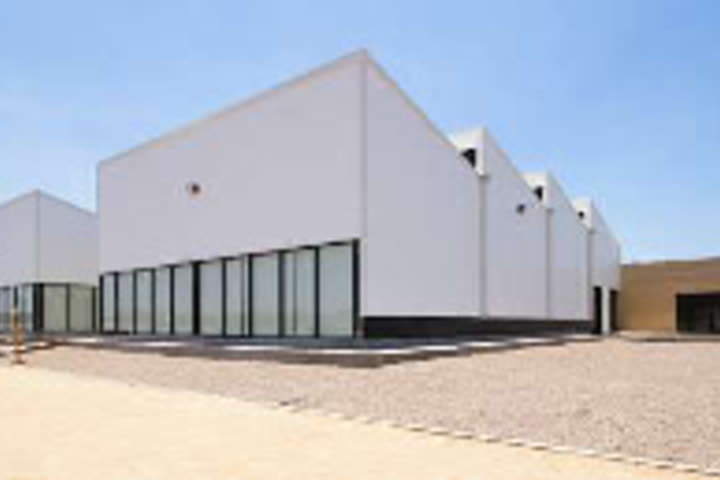
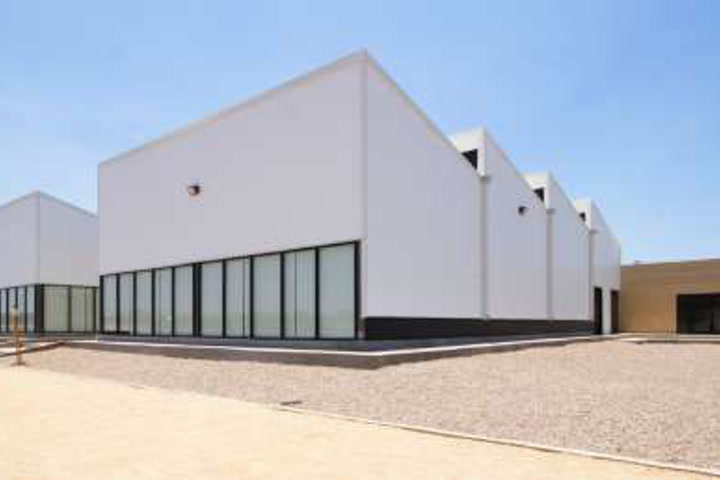
Add Viva Organica 02–06 and San Javier 245 02–05 galleries.
Place the matching 2023 portfolio views on those project pages only. Upgrade the Viva cover to portfolio resolution. Leave San Javier 06–07 until the section drawing is on disk.

diff --git a/works/viva-organica/index.html b/works/viva-organica/index.html
@@ -52,7 +52,7 @@
 
 <figure class="cover">
   <div class="wrap">
-    <img src="01-cover.jpg" alt="Viva Organica: white industrial volumes with a sawtooth roof and a glazed ground floor on a gravel site." width="236" height="129">
+    <img src="01-cover.jpg" alt="Viva Organica: white industrial volumes with a sawtooth roof and a glazed ground floor on a gravel site." width="472" height="258">
     <div class="cover-cap">
       <span class="label">01 · Complex</span>
       <span class="label">México</span>
@@ -77,6 +77,49 @@
       <div class="pair"><dt>Year</dt><dd>2016</dd></div>
       <div class="pair"><dt>Publication</dt><dd>ArchDaily</dd></div>
     </dl>
+  </div>
+
+  <div class="gallery">
+    <figure class="shot">
+      <img src="02-housing.jpg" alt="Aerial view of modular two-story housing around landscaped walkways, with greenhouses at the edge of the site." width="470" height="259">
+      <div class="meta">
+        <span class="idx">02</span>
+        <span class="cap">Housing among the fields</span>
+        <span class="loc">Conjunto</span>
+      </div>
+    </figure>
+    <figure class="shot">
+      <img src="03-courtyard.jpg" alt="Four rammed-earth pavilions around a central tree, linked by dark metal pergolas." width="5472" height="3078">
+      <div class="meta">
+        <span class="idx">03</span>
+        <span class="cap">Courtyard pavilions</span>
+        <span class="loc">Patio</span>
+      </div>
+    </figure>
+    <figure class="shot">
+      <img src="04-blocks.jpg" alt="Aerial view of two-story brick housing blocks with rooftop tanks, walkways, and agricultural fields beyond." width="471" height="225">
+      <div class="meta">
+        <span class="idx">04</span>
+        <span class="cap">Brick housing blocks</span>
+        <span class="loc">Vivienda</span>
+      </div>
+    </figure>
+    <figure class="shot">
+      <img src="05-elevations.jpg" alt="North and east elevations of the bachelor housing: brick modules, recessed stairs, and roof shade structures." width="5759" height="3600">
+      <div class="meta">
+        <span class="idx">05</span>
+        <span class="cap">Bachelor housing elevations</span>
+        <span class="loc">Alzados</span>
+      </div>
+    </figure>
+    <figure class="shot">
+      <img src="06-plan.jpg" alt="Symmetrical floor plan of a multi-room housing block with a central common space, stairs, and paired rooms." width="990" height="441">
+      <div class="meta">
+        <span class="idx">06</span>
+        <span class="cap">Housing-block plan</span>
+        <span class="loc">Planta</span>
+      </div>
+    </figure>
   </div>
 
   <div class="credits">

diff --git a/works/san-javier-245/index.html b/works/san-javier-245/index.html
@@ -79,6 +79,41 @@
     </dl>
   </div>
 
+  <div class="gallery">
+    <figure class="shot">
+      <img src="02-exterior.jpg" alt="Aerial view of the white two-story house with a rammed-earth panel, rooftop terrace, and a neighbouring lot under construction." width="5472" height="3078">
+      <div class="meta">
+        <span class="idx">02</span>
+        <span class="cap">House from above</span>
+        <span class="loc">Exterior</span>
+      </div>
+    </figure>
+    <figure class="shot">
+      <img src="03-roof-plan.jpg" alt="Upper-level plan: attic, half-bath, storage, garden terrace, and service roof around the central stair." width="3600" height="5590">
+      <div class="meta">
+        <span class="idx">03</span>
+        <span class="cap">Roof and terrace plan</span>
+        <span class="loc">Planta segundo nivel</span>
+      </div>
+    </figure>
+    <figure class="shot">
+      <img src="04-ground-plan.jpg" alt="Ground-floor plan: two-car garage, kitchen and dining, living room with a double-height void, and central stair." width="313" height="486">
+      <div class="meta">
+        <span class="idx">04</span>
+        <span class="cap">Ground-floor plan</span>
+        <span class="loc">Planta baja</span>
+      </div>
+    </figure>
+    <figure class="shot">
+      <img src="05-upper-plan.jpg" alt="Upper-floor plan: bedrooms and bathrooms around the central stair and a void over the living room." width="314" height="502">
+      <div class="meta">
+        <span class="idx">05</span>
+        <span class="cap">Upper-floor plan</span>
+        <span class="loc">Planta alta</span>
+      </div>
+    </figure>
+  </div>
+
   <div class="credits">
     <h2>Credits</h2>
     <div class="credit">
